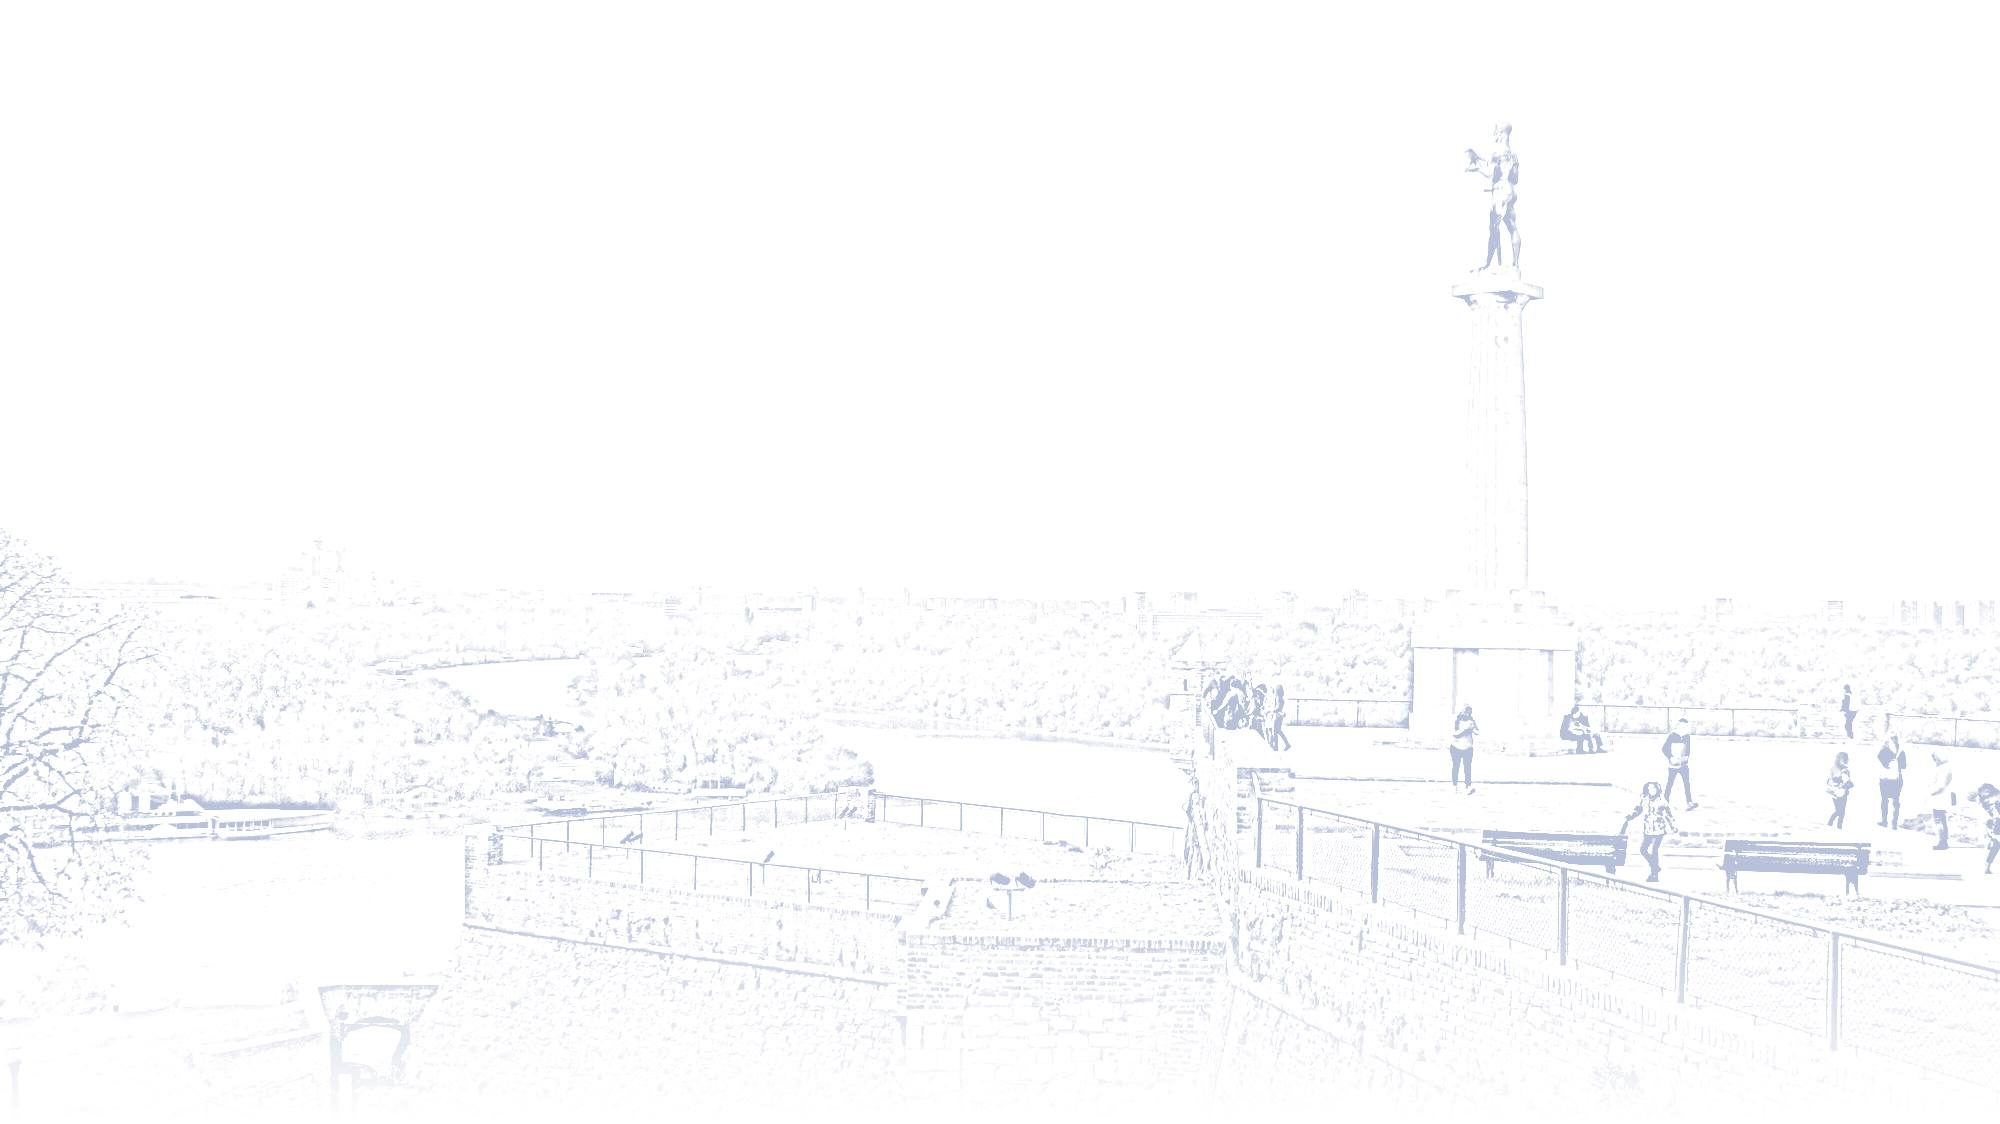
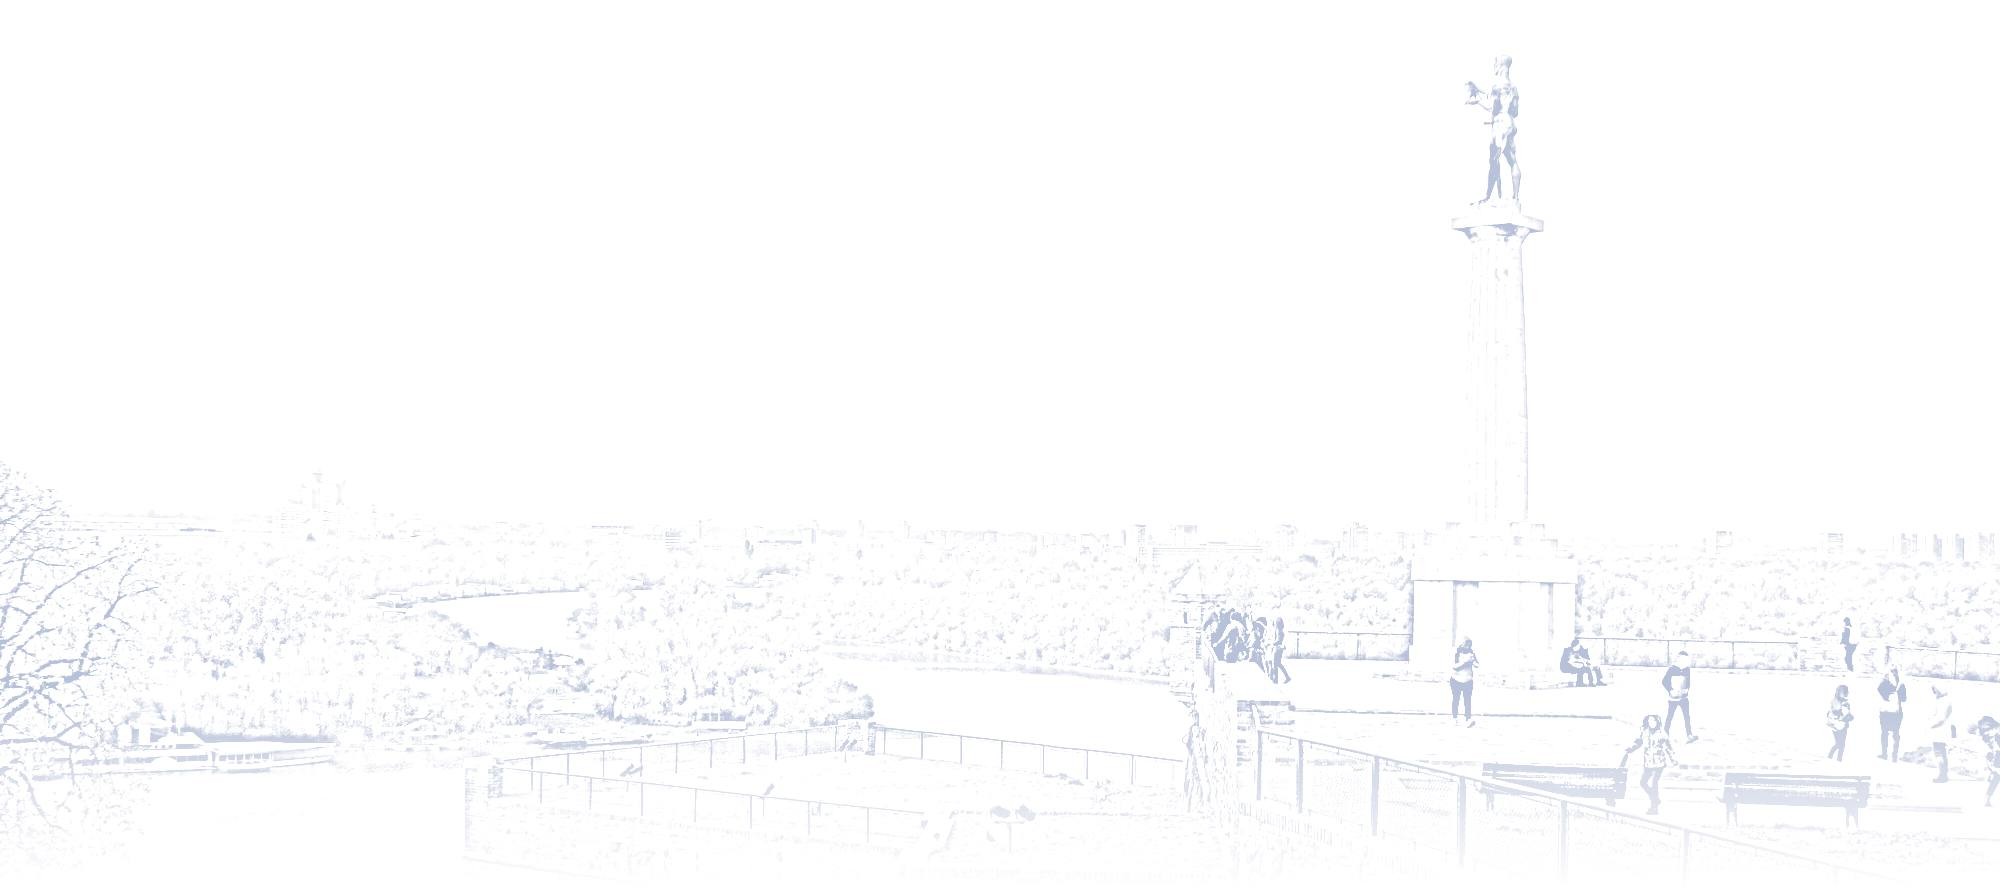
Background trials 1, 3, 4: re-cut so the statue stays in view on wide screens

diff --git a/preview-bg-4.md b/preview-bg-4.md
@@ -8,7 +8,7 @@ intro_bg:
   source: "https://commons.wikimedia.org/wiki/File:Le_vainqueur.jpg"
   license: "CC BY-SA 4.0"
   license_url: "https://creativecommons.org/licenses/by-sa/4.0/"
-
+  position: "30% 30%"
 ---
 {% comment %}Trial page: same content as index.md, with a Pobednik sketch behind the name. Delete when done.{% endcomment %}
 {% capture home %}{% include_relative index.md %}{% endcapture %}

diff --git a/preview-bg-2.md b/preview-bg-2.md
@@ -8,7 +8,6 @@ intro_bg:
   source: "https://commons.wikimedia.org/wiki/File:DJI_0136-12.jpg"
   license: "CC BY-SA 4.0"
   license_url: "https://creativecommons.org/licenses/by-sa/4.0/"
-
 ---
 {% comment %}Trial page: same content as index.md, with a Pobednik sketch behind the name. Delete when done.{% endcomment %}
 {% capture home %}{% include_relative index.md %}{% endcapture %}
